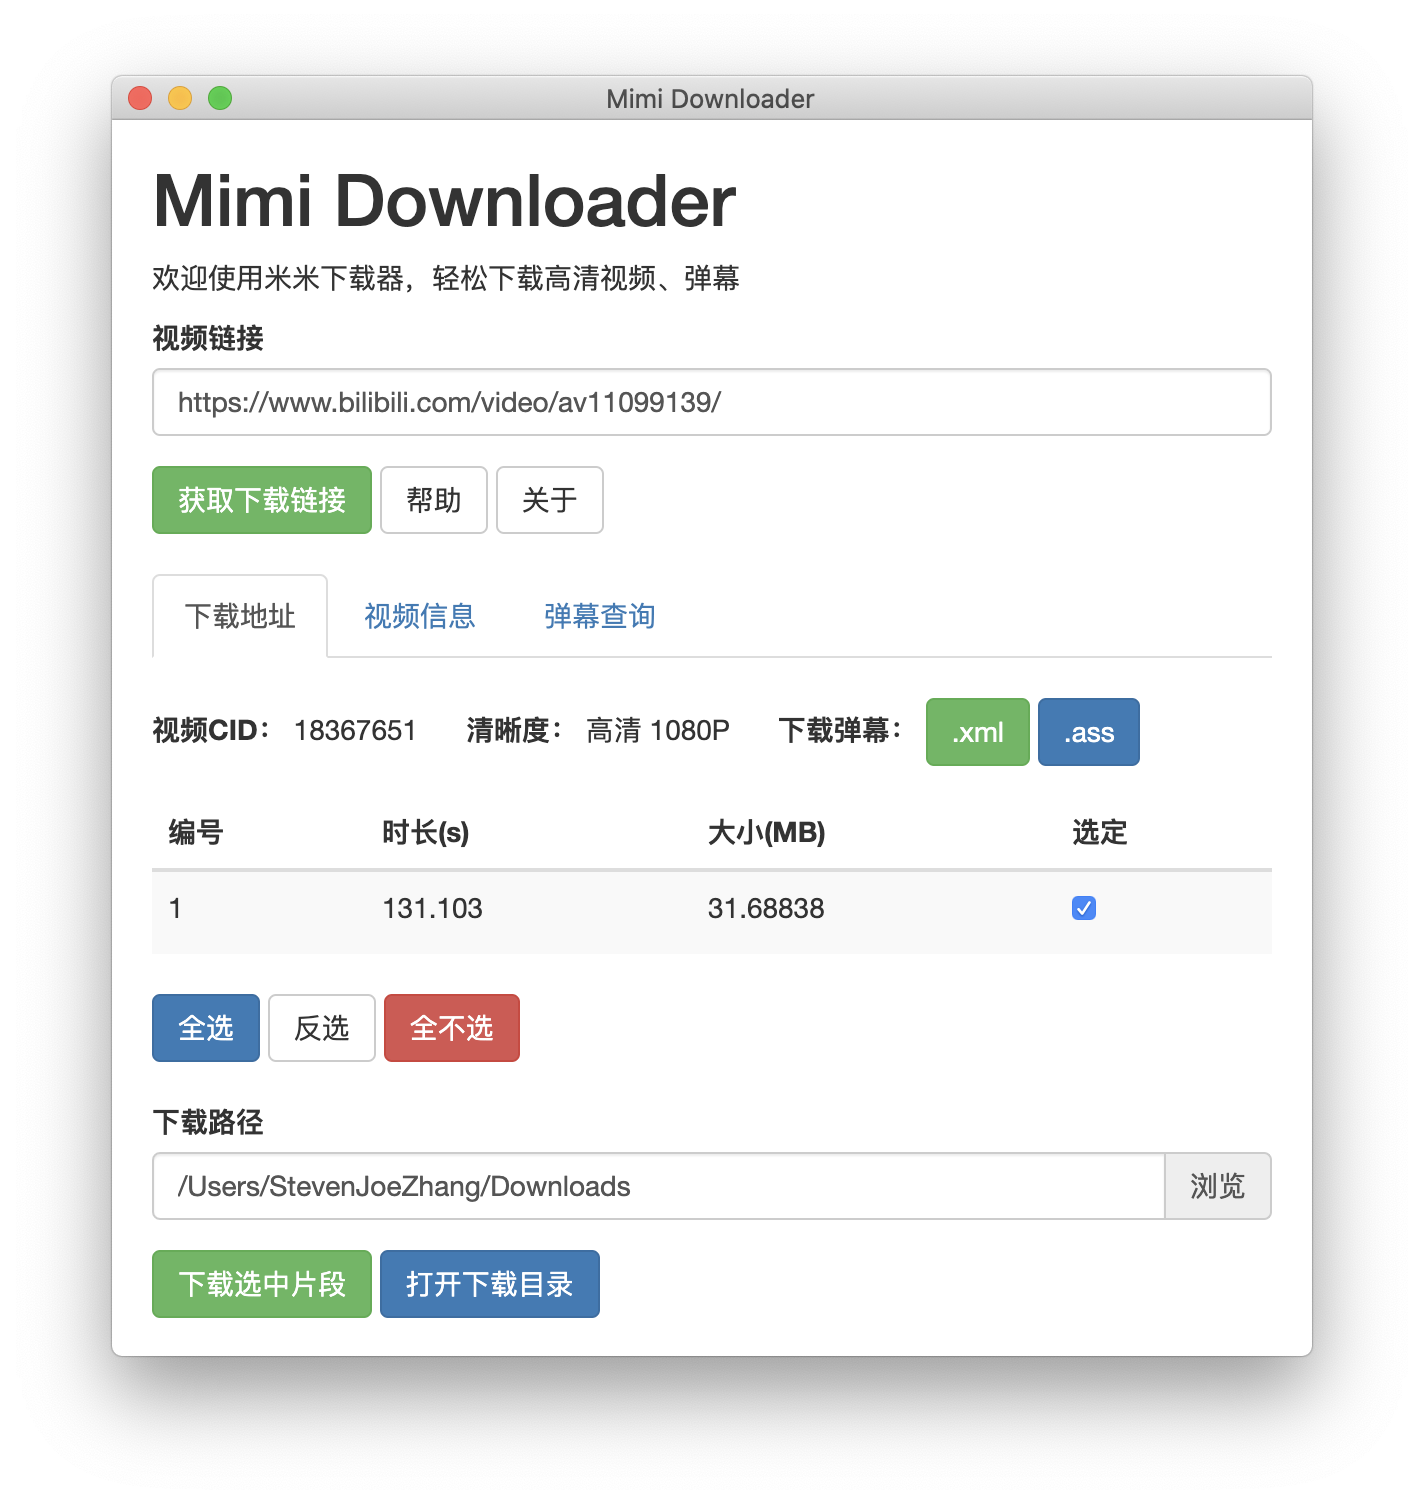
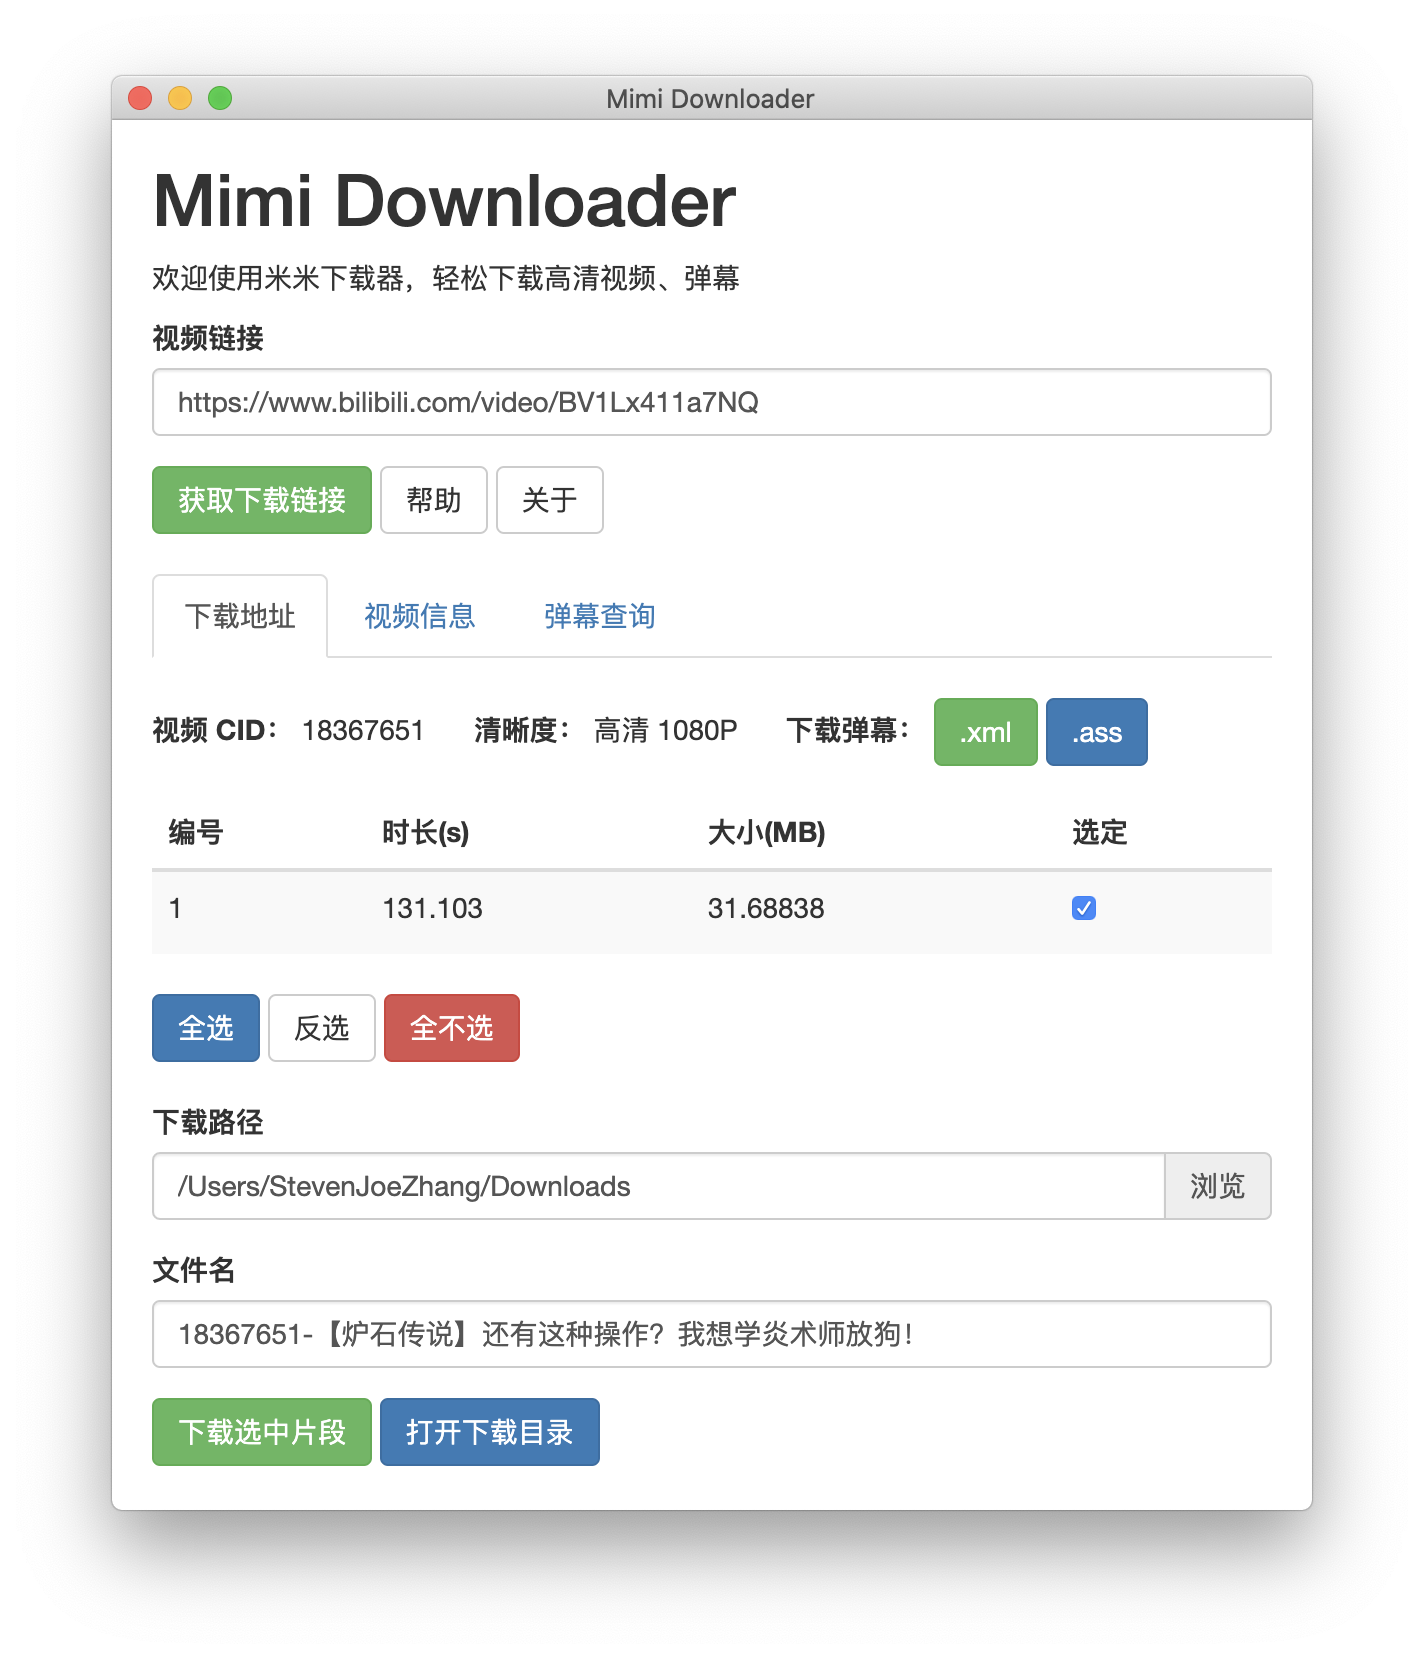
Update screenshot

diff --git a/README.md b/README.md
@@ -34,7 +34,7 @@ npm install
 # 启动！
 npm start
 ```
-如果一切正常，会打开一个名为「Mimi Downloader」的新窗口。输入视频链接（例如 https://www.bilibili.com/video/av11099139/ ），按照提示即可下载视频。
+如果一切正常，会打开一个名为「Mimi Downloader」的新窗口。输入视频链接（例如 https://www.bilibili.com/video/BV1Lx411a7NQ ），按照提示即可下载视频。
 
 对于分为多个 flv 片段的视频，下载完成后，可以使用 ffmpeg 将其合并为一个文件：
 ```bash

diff --git a/README.EN.md b/README.EN.md
@@ -23,7 +23,7 @@ npm install
 # Run the app
 npm start
 ```
-If everything's OK, you'll see a new window named "Mimi Downloader". Input the URL of video (e.g. https://www.bilibili.com/video/av11099139/), then follow the guide to download video files.
+If everything's OK, you'll see a new window named "Mimi Downloader". Input the URL of video (e.g. https://www.bilibili.com/video/BV1Lx411a7NQ ), then follow the guide to download video files.
 
 ## Credits
 
